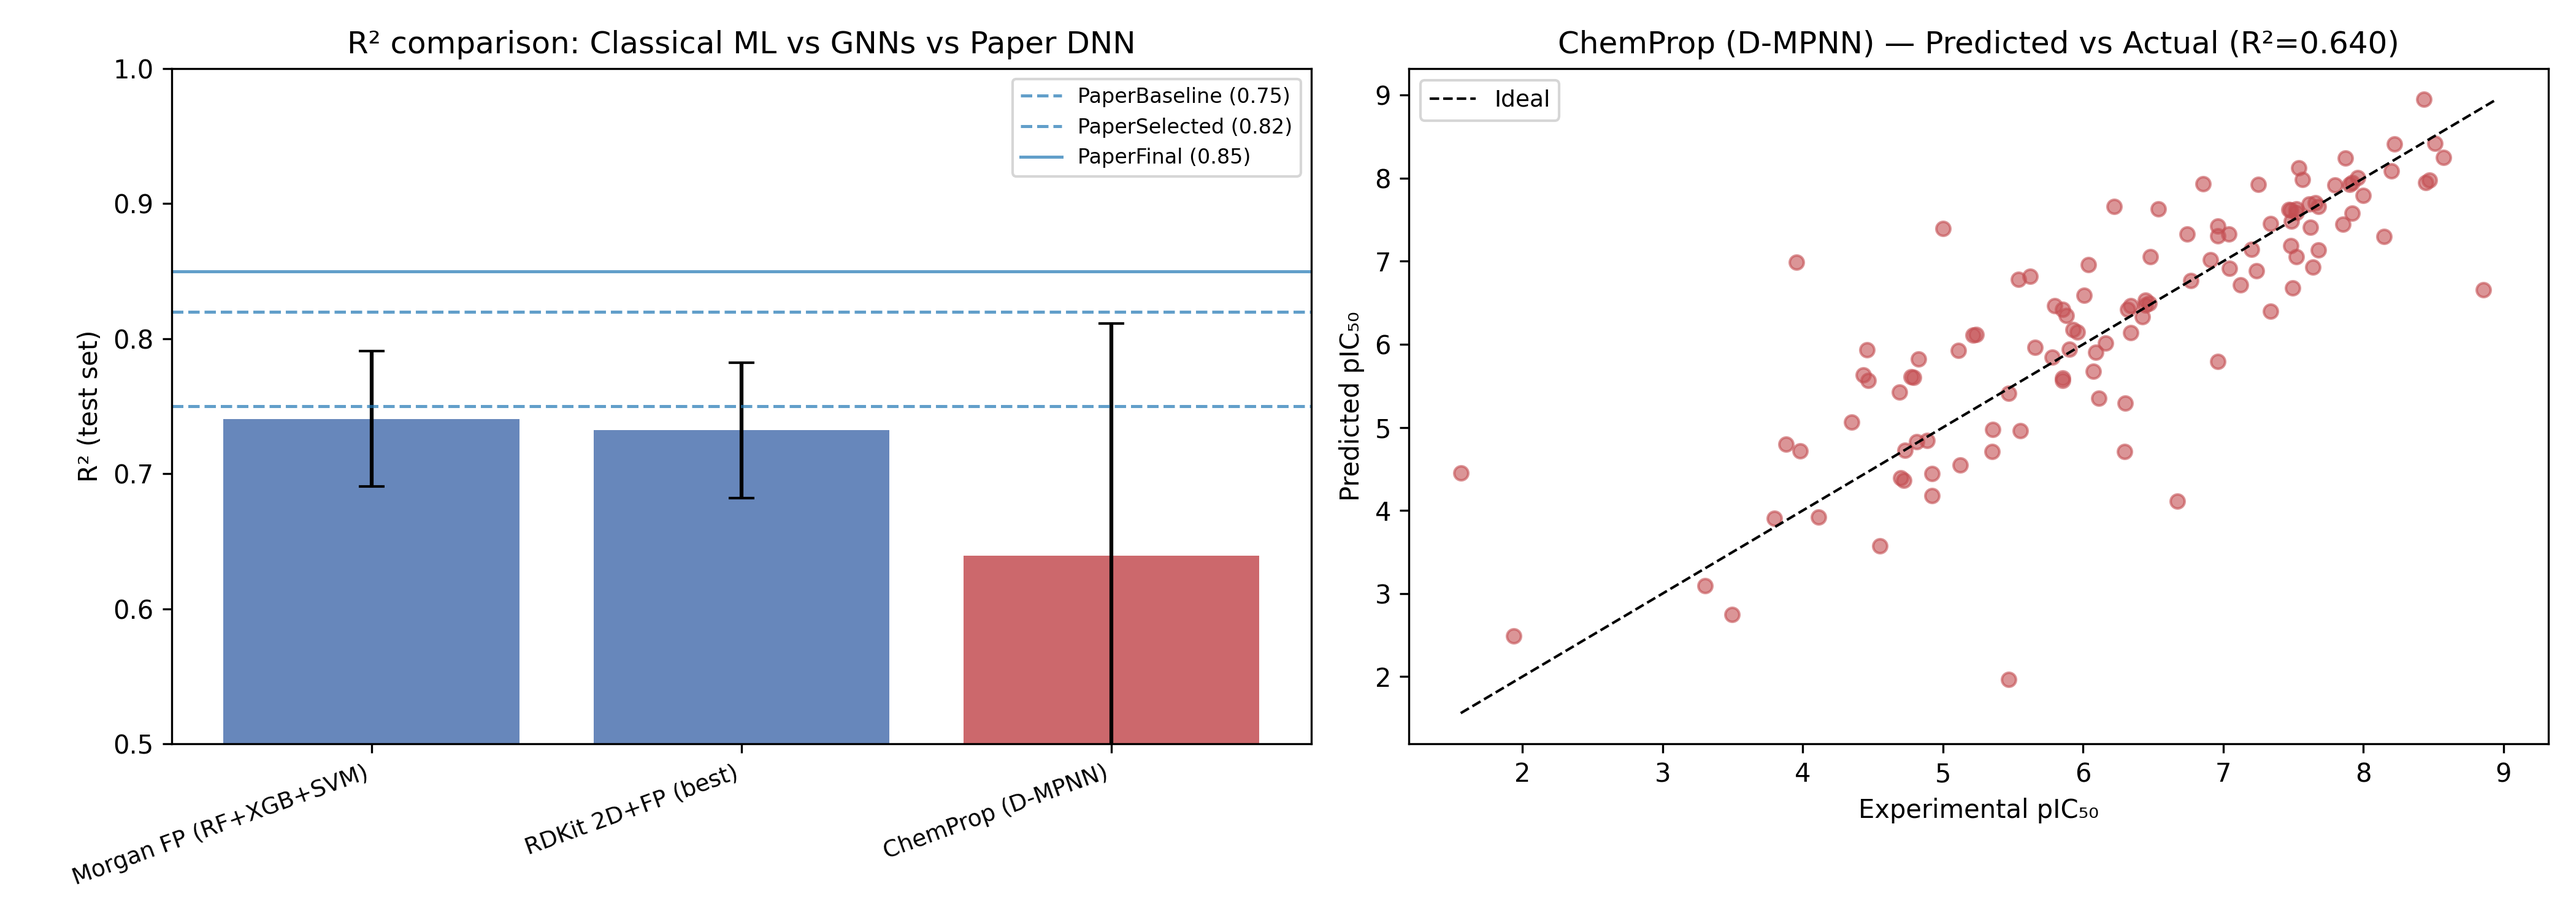
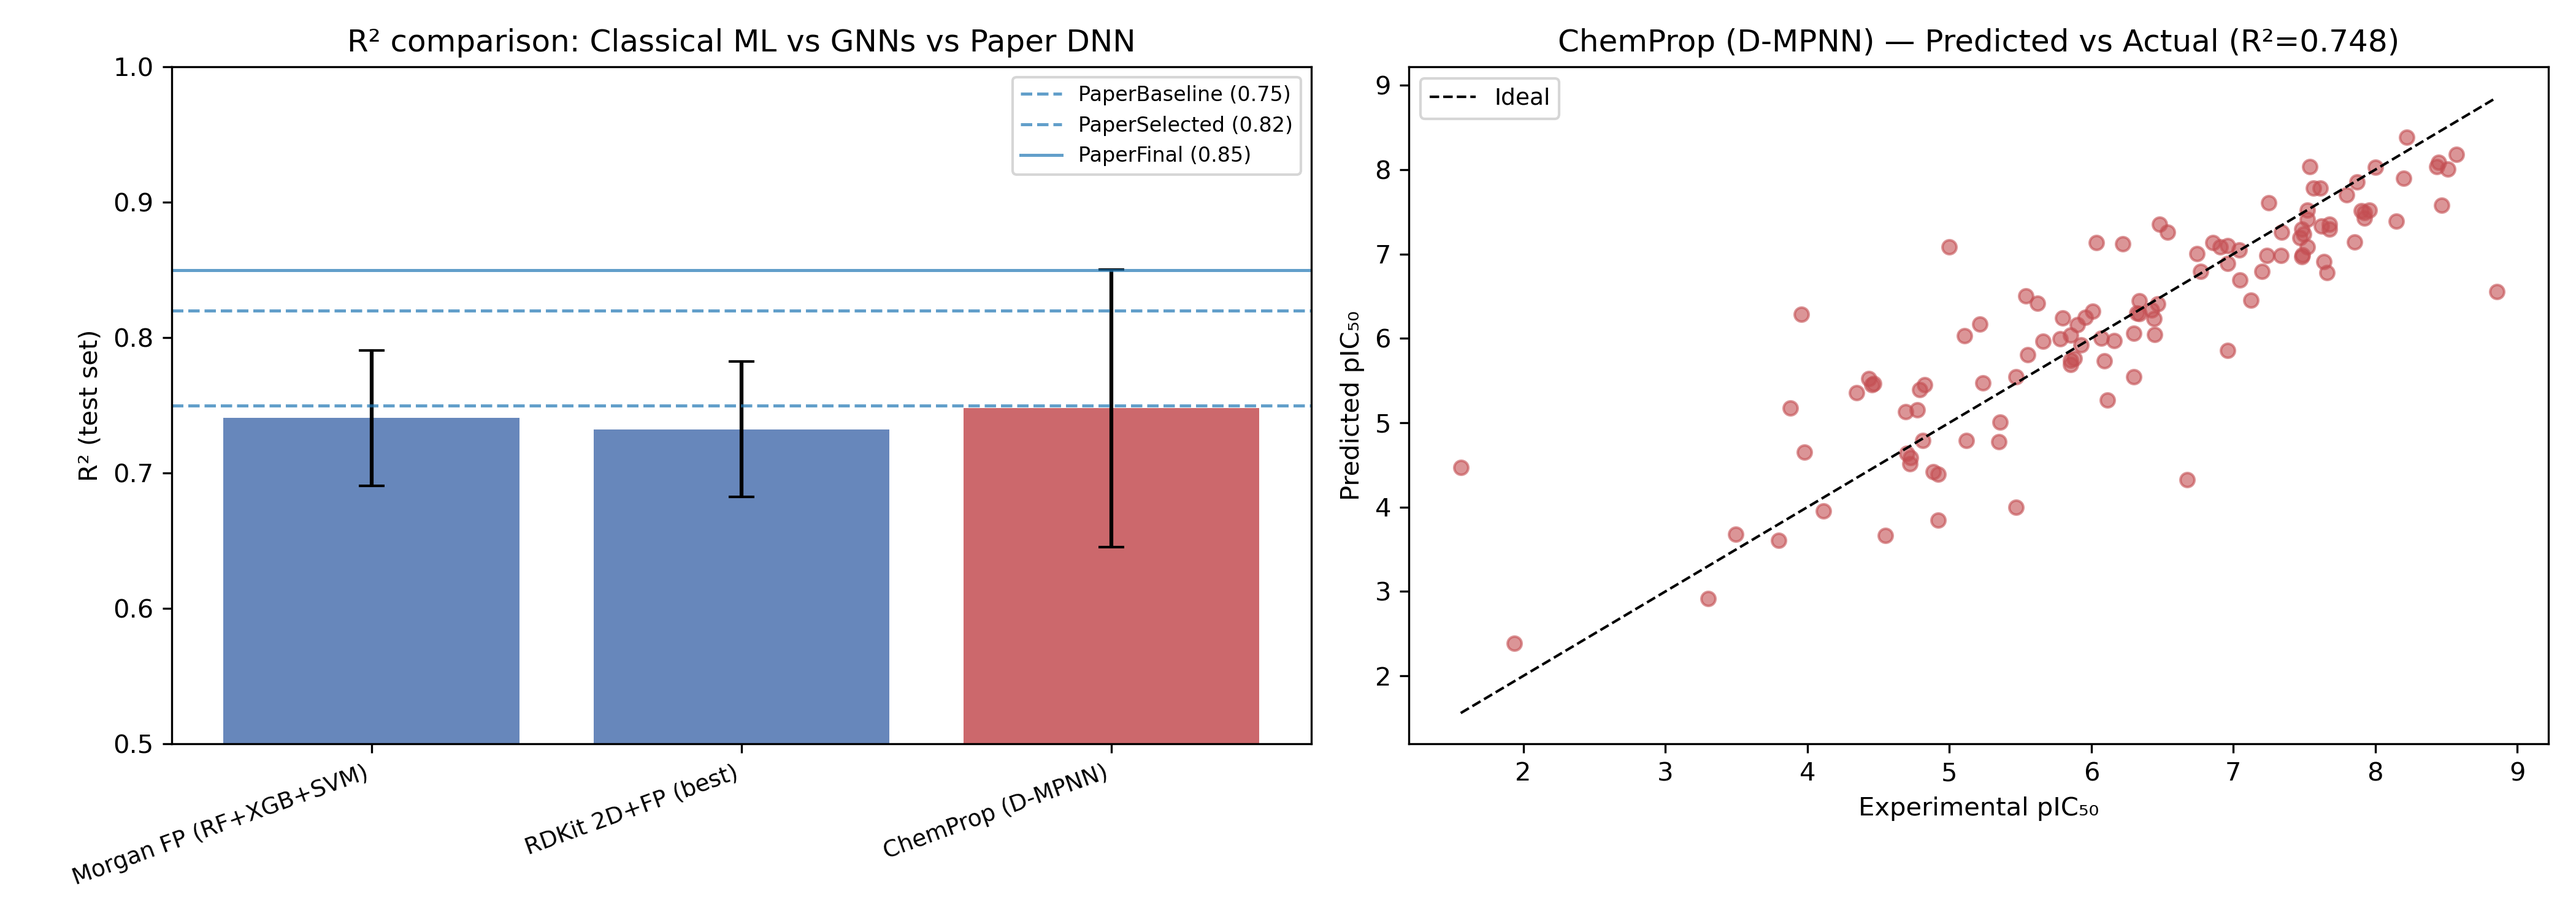
pipeline was run again

diff --git a/scripts/5GNNBASELINE.py b/scripts/5GNNBASELINE.py
@@ -93,7 +93,7 @@ def run_chemprop(smiles, y, test_idx, train_idx):
         ffn = cpnn.RegressionFFN()
         mpnn = models.MPNN(mp, agg, ffn, batch_norm=True, metrics=[cpnn.metrics.RMSE()])
 
-        
+
         # Train
         trainer = pl.Trainer(
             max_epochs=100,
@@ -140,8 +140,8 @@ def check_dgllife():
         import dgllife
         print(f"  [OK] dgl {dgl.__version__}, dgllife {dgllife.__version__}")
         return True
-    except ImportError:
-        print("  [MISSING] dgllife — install with: pip install dgl dgllife")
+    except Exception as e:
+        print(f"  [SKIP] dgl/dgllife no disponible ({type(e).__name__}: binario no compatible con PyTorch 2.5.1). Se omitirá AttentiveFP.")
         return False
 
 def check_torch():
@@ -198,8 +198,8 @@ def run_attentivefp(smiles, y, test_idx, train_idx):
         from rdkit import Chem
         from torch.utils.data import DataLoader, Dataset
         from sklearn.metrics import r2_score, mean_absolute_error
-    except ImportError:
-        print("  [AttentiveFP] dgllife not available, skipping.")
+    except Exception as e:
+        print(f"  [AttentiveFP] No se pudo inicializar DGL ({e}), omitiendo.")
         return None
 
     print("\n  [AttentiveFP] Preparing molecular graphs...")

diff --git a/latex/docking_variables.tex b/latex/docking_variables.tex
@@ -1,14 +1,18 @@
 % Auto-generated by 3DOCKING.py
 % Include with: \input{docking_variables.tex}
 
-\newcommand{\DockNTotal}{2}
-\newcommand{\DockNValidated}{0}
+\newcommand{\DockNTotal}{10}
+\newcommand{\DockNValidated}{4}
 \newcommand{\DockNDiscordant}{0}
 \newcommand{\DockExhaustiveness}{32}
 \newcommand{\DockBoxSize}{20.0}
 \newcommand{\DockCenterX}{3.689}
 \newcommand{\DockCenterY}{39.992}
 \newcommand{\DockCenterZ}{-62.818}
-\newcommand{\DockBestCandidate}{Pyrimethamine}
-\newcommand{\DockBestMLpIC}{6.4226}
-\newcommand{\DockBestDockScore}{-7.31}
+\newcommand{\DockPearsonR}{-0.461}
+\newcommand{\DockPearsonP}{0.1801}
+\newcommand{\DockBestCandidate}{Pralatrexate}
+\newcommand{\DockBestMLpIC}{7.6354}
+\newcommand{\DockBestDockScore}{-9.50}
+\newcommand{\ChlorambucilMLpIC}{6.37}
+\newcommand{\ChlorambucilDockScore}{-6.22}

diff --git a/latex/gnn_variables.tex b/latex/gnn_variables.tex
@@ -1,11 +1,11 @@
 % Auto-generated by 5GNNBASELINE.py
 % Include with: \input{latex/gnn_variables.tex}
 
-\newcommand{\ChemPropDMPNNRTwoMean}{0.6395}
-\newcommand{\ChemPropDMPNNRTwoStd}{0.3430}
-\newcommand{\ChemPropDMPNNMae}{0.5841}
-\newcommand{\ChemPropDMPNNCILow}{0.4352}
-\newcommand{\ChemPropDMPNNCIHigh}{0.7783}
+\newcommand{\ChemPropDMPNNRTwoMean}{0.7480}
+\newcommand{\ChemPropDMPNNRTwoStd}{0.2050}
+\newcommand{\ChemPropDMPNNMae}{0.5073}
+\newcommand{\ChemPropDMPNNCILow}{0.6341}
+\newcommand{\ChemPropDMPNNCIHigh}{0.8390}
 \newcommand{\ChemPropDMPNNVsPaperBaselineP}{0.0000}
 \newcommand{\ChemPropDMPNNVsPaperBaselineSig}{true}
 \newcommand{\ChemPropDMPNNVsPaperSelectedP}{0.0000}

diff --git a/latex/redocking_variables.tex b/latex/redocking_variables.tex
@@ -1,6 +1,6 @@
 % Auto-generated by 4REDOCKING_VALIDATION.py
-\newcommand{\RedockRMSD}{0.33}
-\newcommand{\RedockEnergy}{-7.89}
+\newcommand{\RedockRMSD}{0.30}
+\newcommand{\RedockEnergy}{-7.83}
 \newcommand{\RedockThreshold}{2.0}
 \newcommand{\RedockLigand}{CP6}
 \newcommand{\RedockChain}{B}

diff --git a/scripts/3.5_ADMET.py b/scripts/3.5_ADMET.py
@@ -1,6 +1,7 @@
 import concurrent.futures
 import os
 import sys
+from paths_config import *
 import numpy as np
 import pandas as pd
 from rdkit import Chem
